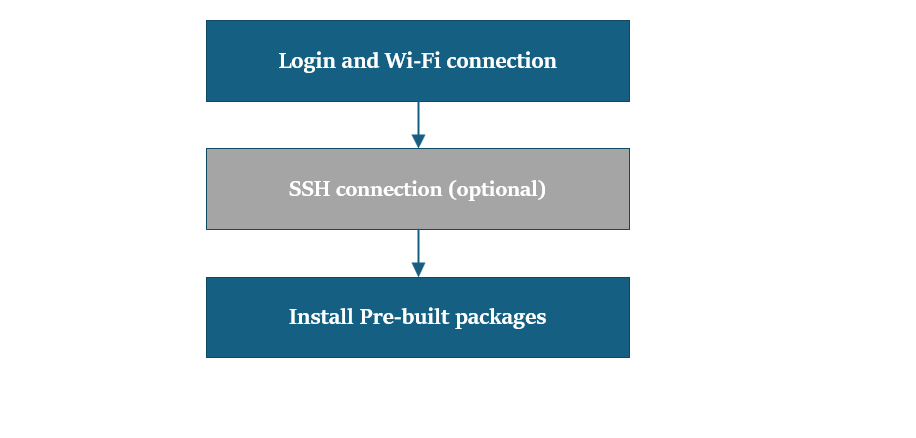
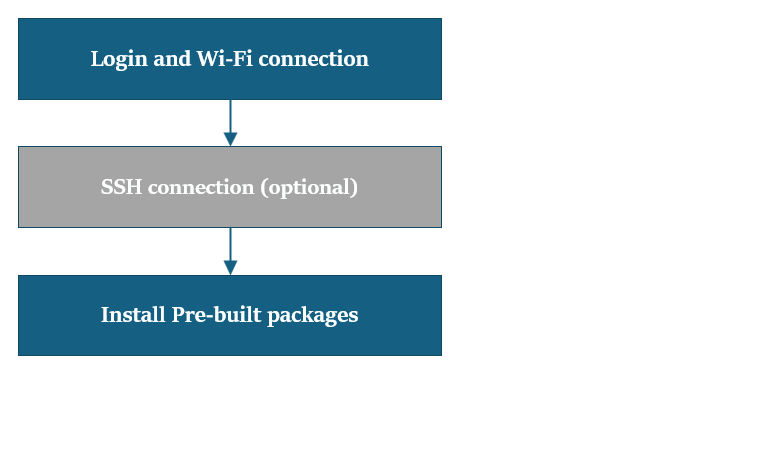
few changes

Changed region(s): [[0.0, 0.0297, 0.7068, 0.8311]]

diff --git a/docs/Document Home/7.Application Development and Execution Guide/2.Framework-Driven AI Sample Execution/3.litert_tflite.md b/docs/Document Home/7.Application Development and Execution Guide/2.Framework-Driven AI Sample Execution/3.litert_tflite.md
@@ -61,25 +61,39 @@ TfLiteStatus status = interpreter->ModifyGraphWithDelegate(delegate);
 ```
 
 ### Python Examples  
+
+**Prerequisites**   
+* **Ubuntu OS** should be flashed  
+* **Terminal access** with appropriate permissions    
+* Run **install_ppa_pkgs.sh** script to install necessary packages 
+	```shell
+	git clone -b ubuntu_setup --single-branch https://github.com/rubikpi-ai/rubikpi-script.git 
+	cd rubikpi-script  
+	./install_ppa_pkgs.sh  
+* Open the terminal on your development board, or an ssh session to your development board, and:  
+Create a new venv, and install the LiteRT runtime and Pillow:  
+    ```python  
+    python3 -m venv .venv-litert-demo
+    source .venv-litert-demo/bin/activate
+    pip3 install ai-edge-litert==1.3.0 Pillow
+    pip3 install opencv-python
+    ```
+* Install necessary python3 and gtk packages.
+    ```python
+    sudo apt install python3-gi python3-gi-cairo gir1.2-gtk-3.0
+    sudo apt install python3-venv python3-full
+    sudo apt install -y pkg-config cmake libcairo2-dev
+    sudo apt install libgirepository1.0-dev gir1.2-glib-2.0
+    sudo apt install build-essential python3-dev python3-pip pkg-config meson
+    ```
+
 <Tabs>
 <TabItem value="Example1" label="Vision Transformers">
 ### Vision Transformers  
 
 Here's how you can run a Vision Transformer model (downloaded from [AI Hub](https://aihub.qualcomm.com/models/vit)) on both the CPU and the NPU using the LiteRT delegates.
 
-Open the terminal on your development board, or an ssh session to your development board, and:
-
-1. Create a new venv, and install the LiteRT runtime and Pillow:
-
-   ```bash
-   mkdir -p litert-demo/
-   cd litert-demo/
-
-   python3 -m venv .venv
-   source .venv/bin/activate
-   pip3 install ai-edge-litert==1.3.0 Pillow
-   ```
-2. Create `inference_vit.py` and add:
+1. Create `inference_vit.py` and add:
 
    ```py
    import numpy as np
@@ -178,7 +192,7 @@ Open the terminal on your development board, or an ssh session to your developme
    print('')
    print(f'Inference took (on average): {(end - start) / 10}ms. per image')
    ```
-3. Run the model on the CPU:
+2. Run the model on the CPU:
 
    ```bash
    python3 inference_vit.py
@@ -194,7 +208,7 @@ Open the terminal on your development board, or an ssh session to your developme
    #
    # Inference took (on average): 391.1ms. per image
    ```
-4. Run the model on the NPU:
+3. Run the model on the NPU:
 
    ```bash
    python3 inference_vit.py --use-npu
@@ -222,31 +236,6 @@ As you can see this model runs significantly faster on NPU - but there's a sligh
 Here's how you can use a GTK-based desktop application to run an image classification model—downloaded from [(AI Hub)](https://aihub.qualcomm.com/iot/models/googlenet?searchTerm=google&chipsets=qualcomm-qcs6490-proxy) on both the CPU and NPU using LiteRT delegates from AI Engine Direct.   
 
 The GoogLeNet_w8a8.tflite model, sourced from AI-Hub, leverages TensorFlow Lite with QNN delegate acceleration to enable efficient on-device inference. 
-
-**Prerequisites**   
-* **Ubuntu OS** should be flashed  
-* **Terminal access** with appropriate permissions    
-* Run **install_ppa_pkgs.sh** script to install necessary packages 
-	```shell
-	git clone -b ubuntu_setup --single-branch https://github.com/rubikpi-ai/rubikpi-script.git 
-	cd rubikpi-script  
-	./install_ppa_pkgs.sh 
-	```
- 
-Open the terminal on your development board, or an ssh session to your development board, and:  
-
-Create a new venv, and install the LiteRT runtime and Pillow:  
-```python  
-python3 -m venv .venv-litert-demo
-source .venv-litert-demo/bin/activate
-pip3 install ai-edge-litert==1.3.0 Pillow
-pip3 install opencv-python
-sudo apt install python3-gi python3-gi-cairo gir1.2-gtk-3.0
-sudo apt install python3-venv python3-full
-sudo apt install -y pkg-config cmake libcairo2-dev
-sudo apt install libgirepository1.0-dev gir1.2-glib-2.0
-sudo apt install build-essential python3-dev python3-pip pkg-config meson
-```
 
 Now follow the steps to create Image classification application.  
 **Summary**  
@@ -756,15 +745,6 @@ Through scp command copy the model onto the device.
 ```shell
 scp xxxx.tflite ubuntu@IP_address:/home/ubuntu/
 ```
-**Prerequisites**   
-* **Ubuntu OS** should be flashed  
-* **Terminal access** with appropriate permissions    
-* Run **install_ppa_pkgs.sh** script to install necessary packages 
-	```shell
-	git clone -b ubuntu_setup --single-branch https://github.com/rubikpi-ai/rubikpi-script.git 
-	cd rubikpi-script  
-	./install_ppa_pkgs.sh 
-	```
 
 **Initialization and Configuration**  
 •	Paths for the model, labels, input video, and delegate are defined.   

diff --git a/docs/Document Home/3.Update-Software/3.1.upgrade-ubuntu.md b/docs/Document Home/3.Update-Software/3.1.upgrade-ubuntu.md
@@ -11,7 +11,6 @@ import TabItem from '@theme/TabItem';
 	
 	### 🏁 Let’s Get Started!
 	![](.././images/Workflow1.png)
-		
     ### 1⃣ Login & Wi-Fi Connection 
 	1: Login and change password on the monitor UART console/SBC terminal.     
 	2: Set up Wi-Fi connectivity. [🔗 Wi-Fi Setup Guide](https://hongyang-rp.github.io/rubikpi-ubuntu-user-manual-test-en.github.io/docs/Document%20Home/quick-start/set-up-your-device#connect-to-the-network)  
